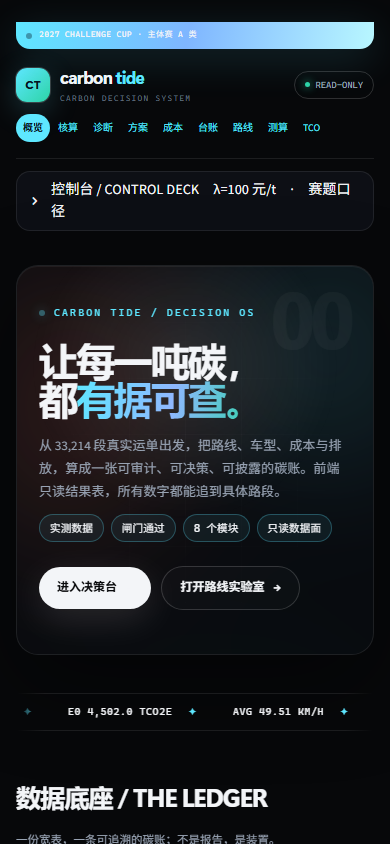
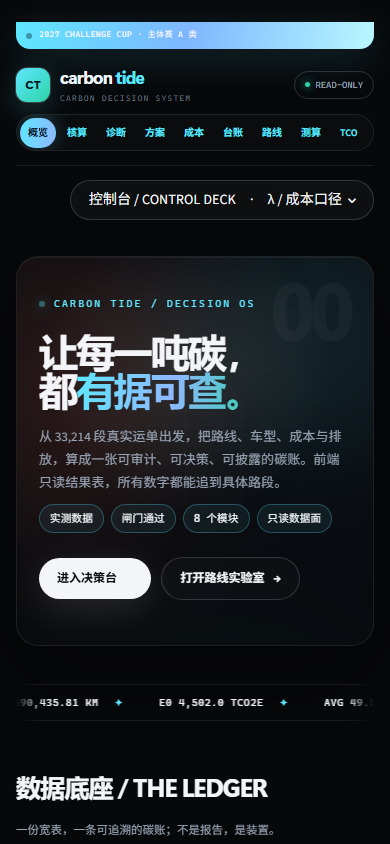
fix(ui): 首屏 CSS 注入与按钮系统精修
- 去掉 session_state CSS 去重：刷新后 DOM 重建也能立即有样式，不再退化裸 HTML

- 控制台改为右上角胶囊 popover，参数卡浮层不顶开正文

- 导航/主次按钮/下载/radio 统一胶囊体系；下载按钮收窄

- 更新首页/台账/移动端截图

diff --git a/app/components/theme.py b/app/components/theme.py
@@ -462,6 +462,78 @@ div[data-testid="stMultiSelect"] span[data-baseweb="tag"] { background: rgba(94,
 [data-testid="stMarkdownContainer"] a { color: var(--tide); }
 [data-testid="stMarkdownContainer"] code { color: var(--foam); background: rgba(94,231,255,0.08); border-radius: 5px; padding: 1px 5px; }
 
+/* ---------- 按钮 / 导航 / 控制台精修 ---------- */
+.cm-nav-links { gap: 3px; padding: 3px; border: 1px solid var(--line); border-radius: 999px; background: rgba(255,255,255,0.018); }
+.cm-nav-link { font-size: 11.5px; font-weight: 600; padding: 7px 11px; border: 1px solid transparent; }
+.cm-nav-link.on { background: linear-gradient(100deg, var(--tide), #8FB8FF); color: #04121F; box-shadow: 0 0 20px rgba(94,231,255,0.26); }
+
+/* 控制台收成一枚右上角胶囊；点开是浮层参数卡 */
+div[data-testid="stLayoutWrapper"]:has(div[data-testid="stPopover"]) { margin-left: auto; }
+div[data-testid="stElementContainer"]:has(div[data-testid="stPopover"]) { display: flex; justify-content: flex-end; }
+div[data-testid="stPopover"] { display: flex; justify-content: flex-end; margin: -2px 0 18px auto !important; width: fit-content !important; }
+div[data-testid="stPopover"] > button {
+  border-radius: 999px !important; border: 1px solid rgba(94,231,255,0.28) !important;
+  background: rgba(94,231,255,0.065) !important; color: var(--foam) !important;
+  padding: 8px 16px !important; min-height: 36px; font-family: var(--mono);
+  font-size: 9.5px !important; letter-spacing: 0.03em; box-shadow: 0 0 22px rgba(94,231,255,0.08);
+}
+div[data-testid="stPopover"] > button:hover { border-color: rgba(94,231,255,0.55) !important; background: rgba(94,231,255,0.10) !important; }
+div[data-testid="stPopoverBody"] div[data-testid="stButton"] { display: flex; justify-content: flex-end; }
+div[data-testid="stPopoverBody"] button { width: auto !important; }
+div[data-testid="stPopoverBody"] {
+  background: #11151C !important; border: 1px solid rgba(94,231,255,0.24) !important;
+  border-radius: 18px !important; box-shadow: 0 24px 70px rgba(0,0,0,0.55) !important;
+  padding: 16px !important; min-width: 330px;
+}
+div[data-testid="stExpander"] { max-width: 100%; margin: 0 0 14px 0; }
+div[data-testid="stExpander"] details { border-radius: 999px; background: rgba(94,231,255,0.055); border: 1px solid rgba(94,231,255,0.22); overflow: hidden; }
+div[data-testid="stExpander"] summary { padding: 8px 15px; color: var(--foam); font-size: 9.5px; letter-spacing: 0.03em; }
+div[data-testid="stExpander"] summary:hover { color: #fff; background: rgba(94,231,255,0.06); }
+div[data-testid="stExpander"] details[open] { border-radius: 18px; background: var(--panel); border-color: rgba(94,231,255,0.26); }
+div[data-testid="stExpander"] details[open] summary { border-bottom: 1px solid var(--line); border-radius: 18px 18px 0 0; }
+
+/* 所有 Streamlit 按钮统一胶囊；主按钮走潮汐渐变 */
+button[data-testid="stBaseButton-primary"], button[kind="primary"],
+button[data-testid="stBaseButton-secondary"], button[kind="secondary"],
+div[data-testid="stDownloadButton"] button {
+  min-height: 38px; border-radius: 999px !important; padding: 8px 18px !important;
+  font-size: 12px !important; font-weight: 700 !important; letter-spacing: 0.01em;
+  transition: transform .18s ease, box-shadow .18s ease, border-color .18s ease;
+}
+button[data-testid="stBaseButton-primary"], button[kind="primary"] {
+  background: linear-gradient(100deg, var(--tide), var(--tide-2)) !important;
+  color: #04121F !important; border: none !important;
+  box-shadow: 0 8px 28px rgba(94,231,255,0.24) !important;
+}
+button[data-testid="stBaseButton-primary"]:hover, button[kind="primary"]:hover {
+  transform: translateY(-1px); box-shadow: 0 12px 34px rgba(94,231,255,0.34) !important;
+}
+button[data-testid="stBaseButton-secondary"], button[kind="secondary"], div[data-testid="stDownloadButton"] button {
+  background: rgba(255,255,255,0.035) !important; border: 1px solid var(--line-2) !important; color: var(--text) !important;
+}
+div[data-testid="stDownloadButton"] { display: flex; }
+div[data-testid="stDownloadButton"] button { width: auto !important; min-width: 168px; max-width: 240px; }
+button[data-testid="stBaseButton-secondary"]:hover, div[data-testid="stDownloadButton"] button:hover {
+  transform: translateY(-1px); border-color: rgba(94,231,255,0.55) !important; background: rgba(94,231,255,0.07) !important;
+}
+
+/* radio 做成胶囊分段控件 */
+div[data-testid="stRadio"] div[role="radiogroup"] { gap: 7px; flex-wrap: wrap; }
+div[data-testid="stRadio"] label {
+  margin: 0 !important; padding: 6px 11px 6px 9px; border: 1px solid var(--line);
+  border-radius: 999px; background: rgba(255,255,255,0.028); transition: all .18s ease;
+}
+div[data-testid="stRadio"] label:has(input:checked) {
+  border-color: rgba(94,231,255,0.55); background: rgba(94,231,255,0.11);
+  box-shadow: 0 0 18px rgba(94,231,255,0.12);
+}
+div[data-testid="stRadio"] label p { font-size: 11.5px !important; }
+div[data-testid="stRadio"] label:hover { border-color: rgba(94,231,255,0.35); }
+
+/* tabs 也做成小胶囊 */
+button[data-testid="stTab"] { padding: 7px 13px !important; border-radius: 999px !important; border: 1px solid transparent !important; }
+button[data-testid="stTab"][aria-selected="true"] { background: rgba(94,231,255,0.10) !important; border-color: rgba(94,231,255,0.30) !important; }
+
 /* ---------- 动效 ---------- */
 @keyframes cmDrift { 0% { transform: translate3d(-3%, -2%, 0) scale(1); } 100% { transform: translate3d(4%, 3%, 0) scale(1.08); } }
 @keyframes cmFloat { 0%,100% { transform: translateY(0); } 50% { transform: translateY(16px); } }
@@ -517,11 +589,13 @@ PAGES: List[Dict[str, str]] = [
 
 
 def inject() -> None:
-    """注入全局样式。每个页面在 setup() 之后调用一次，重复调用无副作用。"""
-    if st.session_state.get("_cm_css_injected"):
-        return
+    """注入全局样式。
+
+    不做 session_state 去重：浏览器刷新/重连后 DOM 会重建，但 session_state
+    可能还在；一旦跳过注入，首屏就会退化成无 CSS 的裸 HTML。CSS 每次 rerun
+    重新注入的成本很低，稳定优先。
+    """
     st.markdown(CSS, unsafe_allow_html=True)
-    st.session_state["_cm_css_injected"] = True
 
 
 def _esc(value: Any) -> str:

diff --git a/app/components/layout.py b/app/components/layout.py
@@ -111,29 +111,22 @@ def sidebar_params(source_name: str = "unknown",
     basis0 = st.session_state.get("basis", "赛题口径")
 
     theme.top_nav(current=current, source_name=source_name, gate=gate)
-    label = "控制台 / CONTROL DECK　·　λ / 成本口径"
-    with st.expander(label, expanded=False):
-        c1, c2, c3 = st.columns([0.32, 0.46, 0.22])
-        with c1:
-            lam = st.number_input(
-                "内部碳价 λ（元/吨 CO₂e）",
-                min_value=0.0, max_value=1000.0, value=lam0, step=10.0,
-                help="全站唯一的定价旋钮，第 3–5 页共用。",
-            )
-        with c2:
-            basis = st.radio(
-                "成本口径", ["赛题口径", "碳价延展口径"],
-                index=0 if basis0 == "赛题口径" else 1, horizontal=True,
-                help="赛题口径＝购置+能耗+维护−补贴；延展口径＝排放量 × λ。",
-            )
-        with c3:
-            st.markdown("<div style='height:26px'></div>", unsafe_allow_html=True)
-            if st.button("刷新结果表", width="stretch",
-                         help="只清缓存、重新读表；不会调用任何算法。"):
-                st.cache_data.clear()
-                st.rerun()
-        st.caption("数据：%s　｜　%s　｜　只读 data/processed；页面不调用核心算法、不做碳/成本计算。"
-                   % (src_text, gate_text))
+    with st.popover("控制台 / CONTROL DECK　·　λ / 成本口径"):
+        lam = st.number_input(
+            "内部碳价 λ（元/吨）",
+            min_value=0.0, max_value=1000.0, value=lam0, step=10.0,
+            help="全站唯一的定价旋钮，第 3–5 页共用。",
+        )
+        basis = st.radio(
+            "成本口径", ["赛题口径", "碳价延展口径"],
+            index=0 if basis0 == "赛题口径" else 1, horizontal=True,
+            help="赛题口径＝购置+能耗+维护−补贴；延展口径＝排放量 × λ。",
+        )
+        if st.button("刷新结果表", width="content",
+                     help="只清缓存、重新读表；不会调用任何算法。"):
+            st.cache_data.clear()
+            st.rerun()
+        st.caption("数据：%s　｜　%s　｜　只读结果表" % (src_text, gate_text))
     st.session_state["lam"] = float(lam)
     st.session_state["basis"] = basis
     try:
